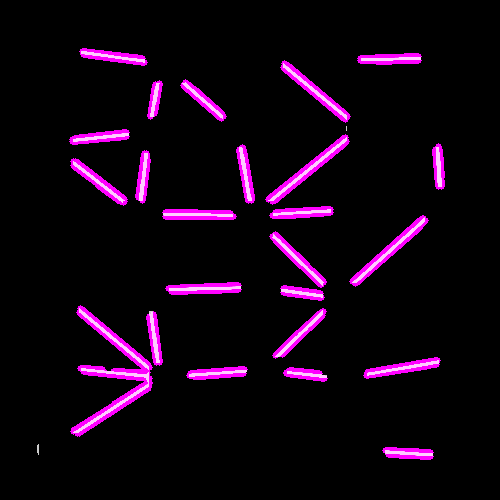
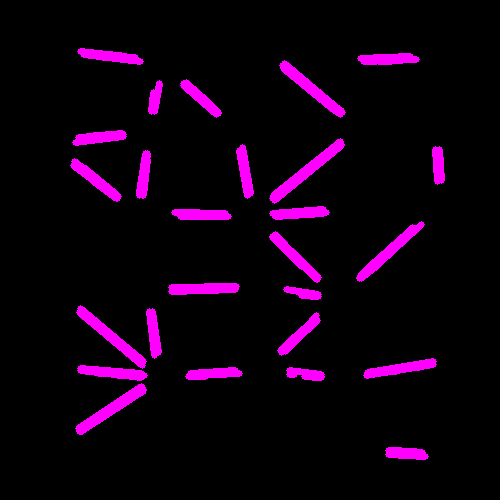
skeleton creator and line merging utility started

diff --git a/image_util.py b/image_util.py
@@ -7,6 +7,8 @@ from matplotlib import pyplot as plt
 import pytesseract
 
 pytesseract.pytesseract.tesseract_cmd = r"C:\Program Files (x86)\Tesseract-OCR\tesseract.exe"
+
+
 def covert_image_greyscale(img):
     img = img.resize((500, 500), Image.ANTIALIAS)
     img = PIL.ImageOps.invert(img)
@@ -57,7 +59,8 @@ def remove_boxes(img,circles):
         # corresponding to the center of the circle
         # cv2.circle(output, (x, y), r,  (0, 255, 0), 4)
         # cv2.circle(img, (x+5, y), r+10, (255, 255, 0), -1)
-        cv2.rectangle(img, (x-15, y-15), (x+24, y+20), (0, 0, 0), -1)
+        cv2.rectangle(img, (x-20, y-20), (x+24, y+20), (0, 0, 0), -1)
+
     return img
 
 
@@ -76,6 +79,27 @@ def read_circles(img,circles):
         # plt.show()
         a = pytesseract.image_to_string(open_cv_image, lang='eng', config='--psm 10 --oem 3 -c tessedit_char_whitelist=0123456789')
         print(a)
+
+
+def detect_lines(img):
+    gray = cv2.cvtColor(img, cv2.COLOR_BGR2GRAY)
+
+    kernel_size = 5
+    blur_gray = cv2.GaussianBlur(gray, (kernel_size, kernel_size), 0)
+    low_threshold = 100
+    high_threshold = 150
+    edges = cv2.Canny(blur_gray, low_threshold, high_threshold)
+    rho = 1  # distance resolution in pixels of the Hough grid
+    theta = np.pi / 180  # angular resolution in radians of the Hough grid
+    threshold = 15  # minimum number of votes (intersections in Hough grid cell)
+    min_line_length = 5  # minimum number of pixels making up a line
+    max_line_gap = 20  # maximum gap in pixels between connectable line segments
+    line_image = np.copy(img) * 0  # creating a blank to draw lines on
+
+    # Run Hough on edge detected image
+    # Output "lines" is an array containing endpoints of detected line segments
+    lines = cv2.HoughLinesP(edges, rho, theta, threshold, np.array([]), min_line_length, max_line_gap)
+    return lines
 
 img = Image.open('myfile.png').convert('L')
 img = covert_image_greyscale(img)
@@ -99,33 +123,45 @@ b = cv2.imread('fin.png',0)
 
 img1 = cv2.imread('fin.png')
 img1 = remove_boxes(img1,circles)
-gray = cv2.cvtColor(img1,cv2.COLOR_BGR2GRAY)
-
-kernel_size = 5
-blur_gray = cv2.GaussianBlur(gray,(kernel_size, kernel_size),0)
-low_threshold = 50
-high_threshold = 150
-edges = cv2.Canny(blur_gray, low_threshold, high_threshold)
-rho = 1  # distance resolution in pixels of the Hough grid
-theta = np.pi / 180  # angular resolution in radians of the Hough grid
-threshold = 15  # minimum number of votes (intersections in Hough grid cell)
-min_line_length = 5  # minimum number of pixels making up a line
-max_line_gap = 20  # maximum gap in pixels between connectable line segments
+cv2.imwrite("test1.png",img1)
+# gray = cv2.cvtColor(img1,cv2.COLOR_BGR2GRAY)
+#
+# kernel_size = 5
+# blur_gray = cv2.GaussianBlur(gray,(kernel_size, kernel_size),0)
+# low_threshold = 100
+# high_threshold = 150
+# edges = cv2.Canny(blur_gray, low_threshold, high_threshold)
+# rho = 1  # distance resolution in pixels of the Hough grid
+# theta = np.pi / 180  # angular resolution in radians of the Hough grid
+# threshold = 15  # minimum number of votes (intersections in Hough grid cell)
+# min_line_length = 5  # minimum number of pixels making up a line
+# max_line_gap = 20  # maximum gap in pixels between connectable line segments
+# line_image = np.copy(img1) * 0  # creating a blank to draw lines on
+#
+# # Run Hough on edge detected image
+# # Output "lines" is an array containing endpoints of detected line segments
+# lines = cv2.HoughLinesP(edges, rho, theta, threshold, np.array([]),min_line_length, max_line_gap)
+lines = detect_lines(img1)
 line_image = np.copy(img1) * 0  # creating a blank to draw lines on
-
-# Run Hough on edge detected image
-# Output "lines" is an array containing endpoints of detected line segments
-lines = cv2.HoughLinesP(edges, rho, theta, threshold, np.array([]),
-                    min_line_length, max_line_gap)
-
+print(lines.shape)
 for line in lines:
     for x1,y1,x2,y2 in line:
         cv2.line(line_image,(x1,y1),(x2,y2),(255,0,255),5)
-lines_edges = cv2.addWeighted(img1, 0.8, line_image, 1, 0)
+
+lines_edges = cv2.addWeighted(img1, 0, line_image, 1, 0)
+
 cv2.imwrite('houghlines3.png',lines_edges)
-
-
-
+# ends = cv2.imread('houghlines3.png',0)
+#
+# corners = cv2.goodFeaturesToTrack(ends, 200, 0.5, 5)
+# print(type(corners))
+# for corner in corners:
+#    for a in corner:
+#         print(a)
+#         cv2.circle(ends, (tuple(a)), 5, (255,255,0), -1)
+#         # cv2.circle(img, (x+5, y), r+10, (255, 255, 0), -1)
+# plt.imshow(ends, cmap='gray', interpolation='bicubic')
+# plt.show()
 # a = pytesseract.image_to_string("fin.png")
 # print(a)
 # print(a)

diff --git a/line_merging_utility.py b/line_merging_utility.py
@@ -1,0 +1,34 @@
+import PIL.ImageEnhance
+import PIL.ImageOps
+from PIL import Image
+import cv2
+import numpy as np
+from matplotlib import pyplot as plt
+import pytesseract
+
+img = cv2.imread('test1.png', 0)
+
+cv2.imshow("skel", img)
+cv2.waitKey(0)
+cv2.destroyAllWindows()
+size = np.size(img)
+skel = np.zeros(img.shape, np.uint8)
+
+ret, img = cv2.threshold(img, 127, 255, 0)
+element = cv2.getStructuringElement(cv2.MORPH_CROSS, (3, 3))
+done = False
+
+while (not done):
+    eroded = cv2.erode(img, element)
+    temp = cv2.dilate(eroded, element)
+    temp = cv2.subtract(img, temp)
+    skel = cv2.bitwise_or(skel, temp)
+    img = eroded.copy()
+
+    zeros = size - cv2.countNonZero(img)
+    if zeros == size:
+        done = True
+
+cv2.imshow("skel", skel)
+cv2.waitKey(0)
+cv2.destroyAllWindows()

diff --git a/skeleton_creater.py b/skeleton_creater.py
@@ -1,0 +1,34 @@
+import PIL.ImageEnhance
+import PIL.ImageOps
+from PIL import Image
+import cv2
+import numpy as np
+from matplotlib import pyplot as plt
+import pytesseract
+
+img = cv2.imread('test1.png', 0)
+
+cv2.imshow("skel", img)
+cv2.waitKey(0)
+cv2.destroyAllWindows()
+size = np.size(img)
+skel = np.zeros(img.shape, np.uint8)
+
+ret, img = cv2.threshold(img, 127, 255, 0)
+element = cv2.getStructuringElement(cv2.MORPH_CROSS, (3, 3))
+done = False
+
+while (not done):
+    eroded = cv2.erode(img, element)
+    temp = cv2.dilate(eroded, element)
+    temp = cv2.subtract(img, temp)
+    skel = cv2.bitwise_or(skel, temp)
+    img = eroded.copy()
+
+    zeros = size - cv2.countNonZero(img)
+    if zeros == size:
+        done = True
+
+cv2.imshow("skel", skel)
+cv2.waitKey(0)
+cv2.destroyAllWindows()
